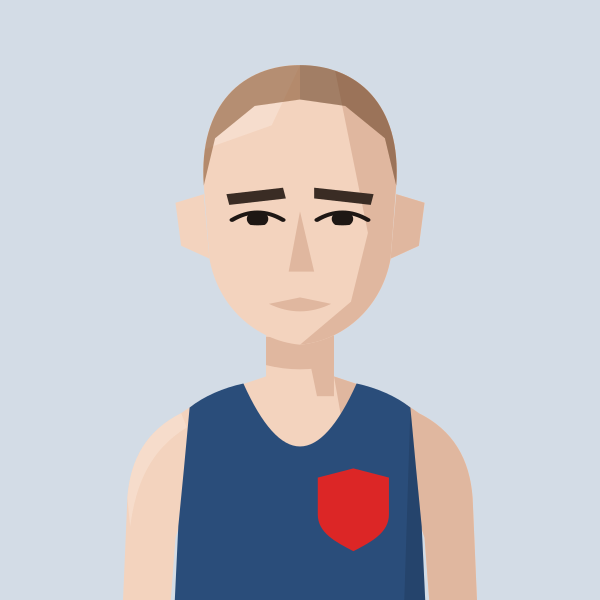
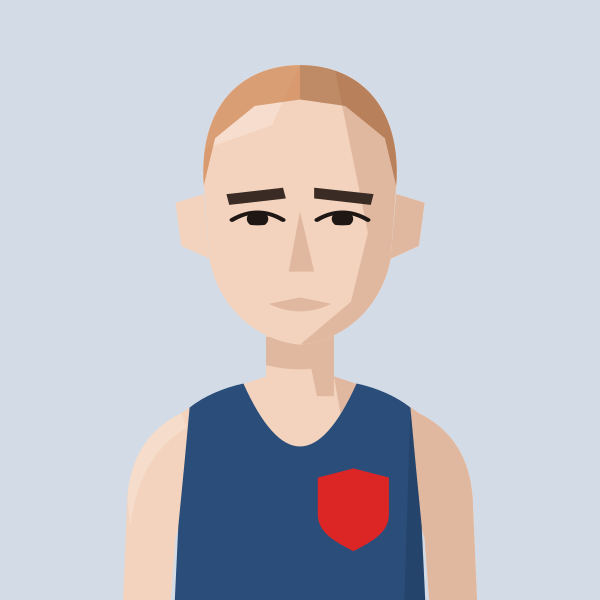
Chris Busaileh ginger; Jim Allchin straight hair and stubble
Claude-Session: https://claude.ai/code/session_01MgmDWhFqnSSnP4iBLKXUZC

Changed region(s): [[0.33, 0.09, 0.66, 0.3]]

diff --git a/tools/gen_portraits.py b/tools/gen_portraits.py
@@ -113,6 +113,10 @@ HAIR["wavytie"] = '<path d="M64,104 C60,57 80,37 100,37 C122,37 140,57 136,104 L
 HAIR_BACK["wavytie"] = '<path d="M120,62 C138,62 150,74 150,88 Q158,100 150,112 Q158,126 149,138 Q154,152 143,162 Q144,174 132,182 Q129,184 129,180 Q136,168 134,154 Q138,140 134,126 Q137,112 132,100 Q130,84 120,72 Z"/>'
 HAIR["longwavy"] = '<path d="M62,108 C56,60 78,36 100,36 C122,36 144,60 138,108 L132,92 Q128,74 113,66 L100,57 L87,66 Q72,74 68,92 Z"/>'
 HAIR_BACK["longwavy"] = '<path d="M60,90 C56,52 80,34 100,34 C120,34 144,52 140,90 Q148,110 141,128 Q149,146 141,164 Q147,178 135,188 L65,188 Q53,178 59,164 Q51,146 59,128 Q52,110 60,90 Z"/>'
+HAIR["longstraight"] = HAIR["longwavy"]
+HAIR_BACK["longstraight"] = '<path d="M60,90 C56,52 80,34 100,34 C120,34 144,52 140,90 L143,186 L57,186 Z"/>'
+HAIR["longstraight"] = HAIR["longwavy"]
+HAIR_BACK["longstraight"] = '<path d="M60,90 C56,52 80,34 100,34 C120,34 144,52 140,90 L142,188 L58,188 Z"/>'
 FACIAL = {
     "mostubble": '<path d="M66,112 L74,124 L84,146 L116,146 L126,124 L134,112 L134,180 L66,180 Z" opacity=".32"/><path d="M84,141 L100,137 L116,141 L117,150 L112,147 L100,144 L88,147 L83,150 Z"/>',
     "muttonchops": '<path d="M65,98 L70,98 L71,120 Q74,134 84,143 Q86,148 82,151 Q74,151 70,143 Q66,132 65,118 Z"/><path d="M135,98 L130,98 L129,120 Q126,134 116,143 Q114,148 118,151 Q126,151 130,143 Q134,132 135,118 Z"/>',
@@ -462,5 +466,5 @@ save("steve-gardner", figure("BEL", skin=1, hair="tousled", hair_colour="#3A2A22
 save("alex-yee", figure("KEN", skin=2, hair="quiff", hair_colour="#4A3022", medal="gold"))
 save("phil-wicks", figure("BEL", skin=1, hair="tousled", hair_colour="#5A3E2A", gaunt=True, temples=True))
 save("john-gilbert", figure("KEN", skin=1, hair="fringe", hair_colour="#5C3D28", facial="stubble"))
-save("chris-busaileh", figure("KEN", skin=1, hair="buzz", hair_colour="#8A5A36"))
-save("jim-allchin", figure("KEN", skin=1, hair="longwavy", hair_colour="#7A4E30", headband="#C8323A"))
+save("chris-busaileh", figure("KEN", skin=1, hair="buzz", hair_colour="ginger"))
+save("jim-allchin", figure("KEN", skin=1, hair="longstraight", hair_colour="#86593A", headband="#C8323A", facial="stubble"))
